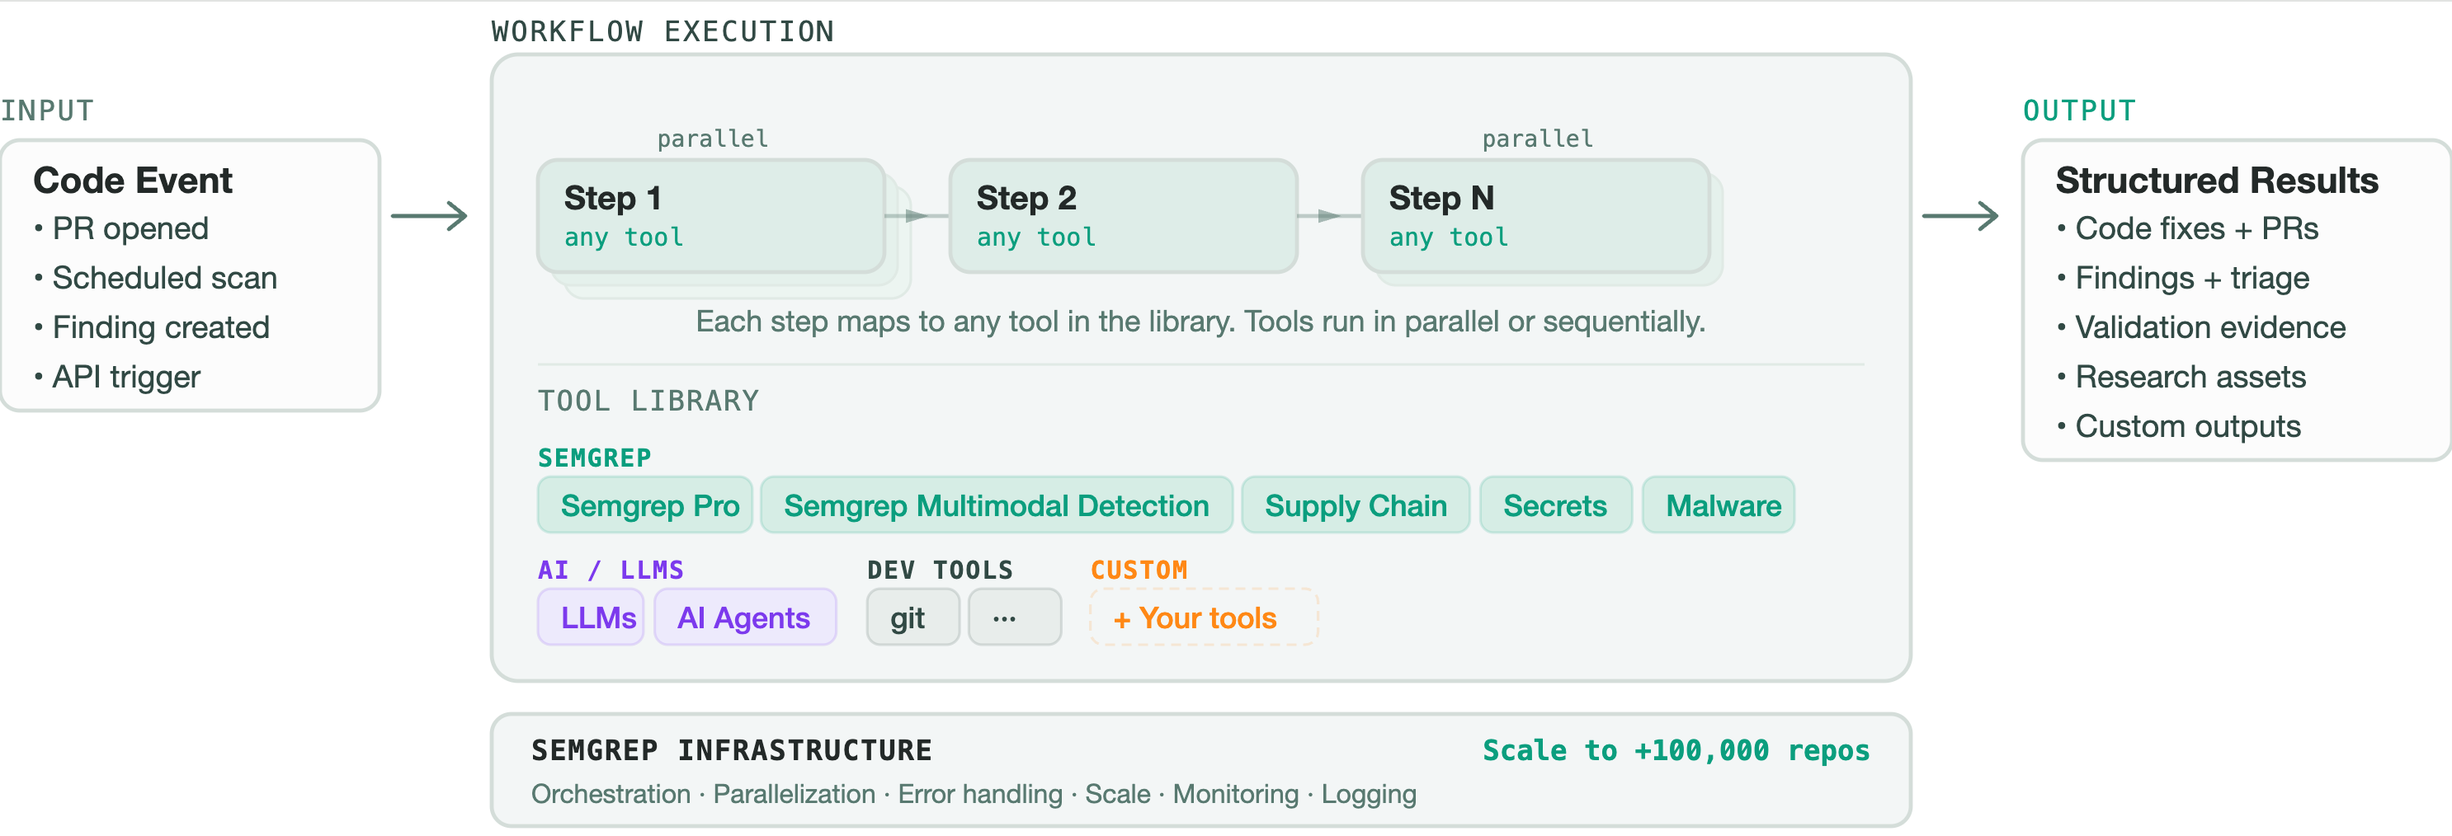
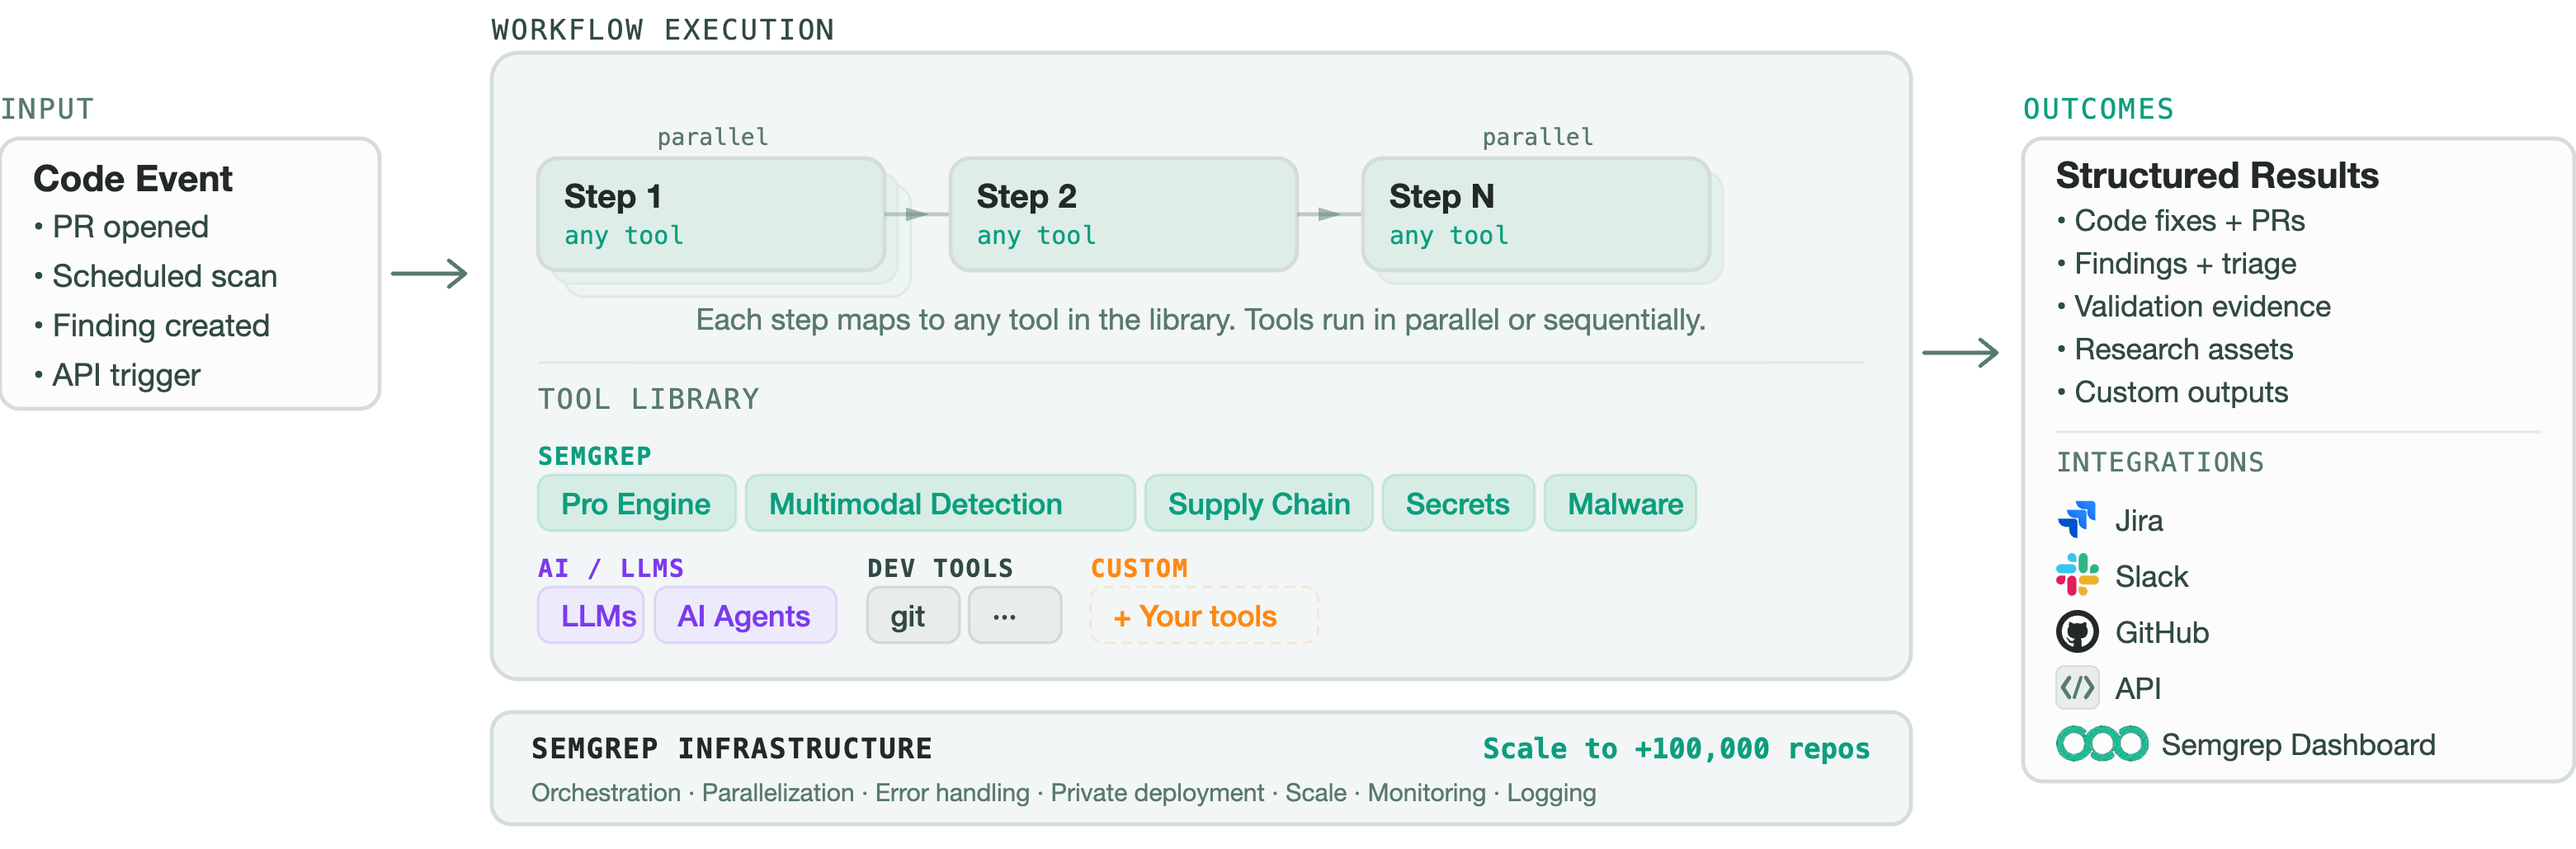
remove OOB and edit overview

diff --git a/sidebars.js b/sidebars.js
@@ -309,15 +309,7 @@ module.exports = {
             'semgrep-appsec-platform/wiz'
           ]
         },
-        {
-          type: 'category',
-          label: 'Workflows',
-          collapsible: true,
-          items: [
-            'workflows/overview',
-            'workflows/oob',
-          ]
-        },
+        'workflows/overview',
       ]
     },
     {

diff --git a/docs/workflows/overview.md b/docs/workflows/overview.md
@@ -13,7 +13,7 @@ tags:
 
 Semgrep Workflows is a framework for building automated code security pipelines that allow you to detect, triage, and remediate security issues.
 
-Each workflow is a series of steps, defined in Python, that include deterministic tools such as Semgrep Code, Supply Chain, and Secrets, as well as AI agents such as Anthropic’s Claude or ChatGPT. You can also integrate third-party tools and any custom tooling required. Once you’ve defined your workflow, Semgrep handles its deployment and execution at scale.
+Each workflow is a series of steps, defined in Python, that include deterministic tools such as Semgrep Code, Supply Chain, and Secrets, as well as Semgrep Multimodal and AI agents such as Anthropic’s Claude or ChatGPT. You can also integrate third-party tools and any custom tooling required. Once you’ve defined your workflow, Semgrep handles its deployment and execution at scale.
 
 ![Architectural overview of Semgrep Workflows](/img/workflow-architecture.png#md-width)
 _**Figure**. Architectural overview of Semgrep Workflows._
@@ -36,9 +36,7 @@ Semgrep's **pre-built workflows**, covering common use cases, include:
 - **Triage**: filter out false positives from your results to help your security teams prioritize real issues
 - **Autofix**: turn dependency findings into actionable remediation guidance, including information on whether the upgrade is safe or requires code modification
 
-You can integrate any of these workflows individually, combine them to implement the functionality you need, or use them all to create an end-to-end security workflow for your organization.
-
-Alternatively, you can define **custom workflows** to meet your organization's needs. You can adapt a pre-built Semgrep workflow for your organization, or create entirely new ones using the Semgrep agent SDK.
+You can integrate any of these workflows individually, combine them to implement the functionality you need, or use them all to create an end-to-end security workflow for your organization. Alternatively, you can define **custom workflows** to meet your organization's needs. You can adapt a pre-built Semgrep workflow for your organization, or create entirely new ones using the Semgrep agent SDK.
 
 ## Custom workflows
 
